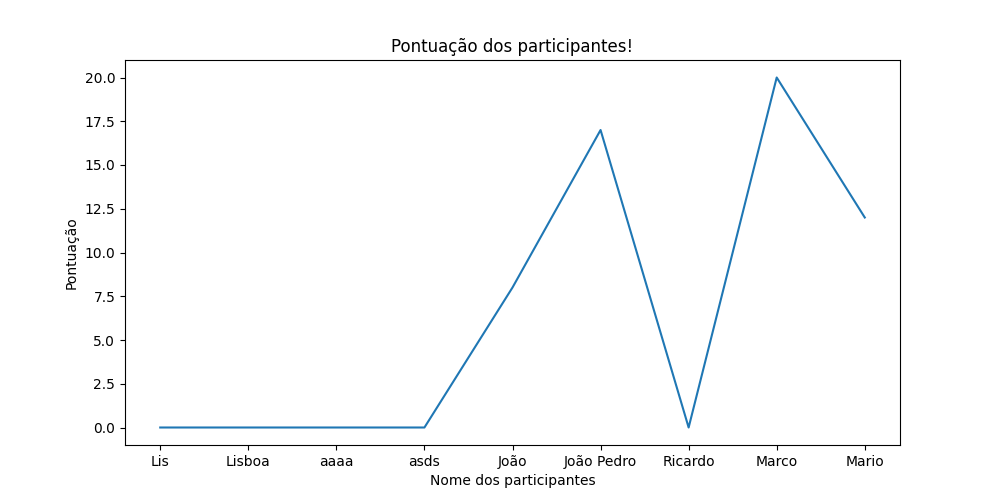
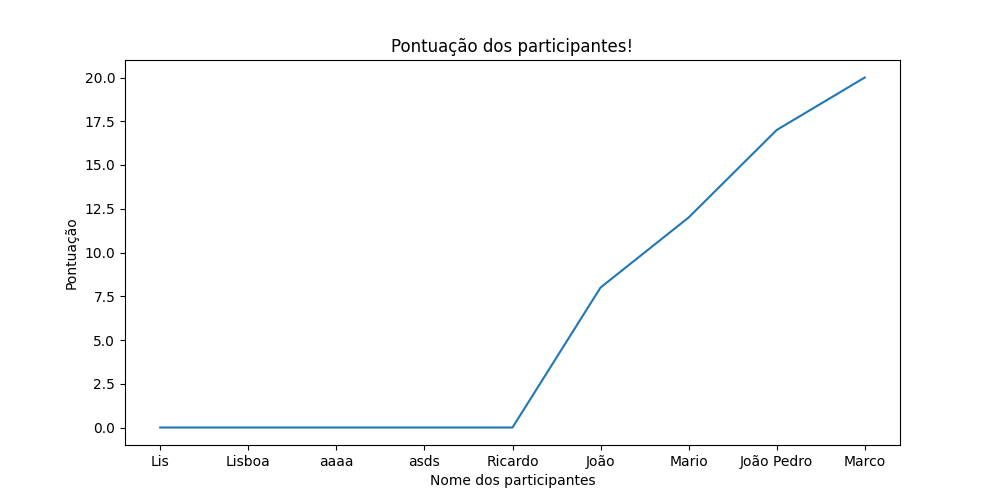
commit inicial

diff --git a/config/settings.py b/config/settings.py
@@ -24,6 +24,7 @@ BASE_DIR = Path(__file__).resolve().parent.parent
 
 # SECURITY WARNING: keep the secret key used in production secret!
 SECRET_KEY = env.str("SECRET_KEY")
+
 # SECURITY WARNING: don't run with debug turned on in production!
 DEBUG = env.bool("DEBUG", default=False)
 
@@ -45,13 +46,20 @@ INSTALLED_APPS = [
 MIDDLEWARE = [
     'django.middleware.security.SecurityMiddleware',
     'django.contrib.sessions.middleware.SessionMiddleware',
-    'whitenoise.middleware.WhiteNoiseMiddleware',
+    'whitenoise.middleware.WhiteNoiseMiddleware',    # novo
     'django.middleware.common.CommonMiddleware',
     'django.middleware.csrf.CsrfViewMiddleware',
     'django.contrib.auth.middleware.AuthenticationMiddleware',
     'django.contrib.messages.middleware.MessageMiddleware',
     'django.middleware.clickjacking.XFrameOptionsMiddleware',
 ]
+# Static files (CSS, JavaScript, Images)
+# https://docs.djangoproject.com/en/4.0/howto/static-files/
+
+STATIC_URL = '/nome_aplicacao/static/'    # substitua nome_aplicacao pelo nome da sua aplicação
+STATICFILES_DIRS = [str(BASE_DIR.joinpath('static'))]  # novo se a pasta static estiver na pasta da aplicação app, altere para str(BASE_DIR.joinpath('app/static'))
+STATIC_ROOT = str(BASE_DIR.joinpath('staticfiles'))   # novo
+STATICFILES_STORAGE = 'whitenoise.storage.CompressedManifestStaticFilesStorage'  # novo
 
 ROOT_URLCONF = 'config.urls'
 
@@ -75,10 +83,9 @@ WSGI_APPLICATION = 'config.wsgi.application'
 
 # Database
 # https://docs.djangoproject.com/en/4.0/ref/settings/#databases
-
 DATABASES = {
-    "default": env.dj_db_url("DATABASE_URL")
-}
+      "default": env.dj_db_url("DATABASE_URL")
+ }
 
 # Password validation
 # https://docs.djangoproject.com/en/4.0/ref/settings/#auth-password-validators
@@ -109,14 +116,6 @@ USE_I18N = True
 
 USE_TZ = True
 
-# Static files (CSS, JavaScript, Images)
-# https://docs.djangoproject.com/en/4.0/howto/static-files/
-
-STATIC_URL = 'static/'
-STATICFILES_DIRS = [str(BASE_DIR.joinpath('portfolio/static'))] # novo se a pasta static estiver na pasta da aplicação app,
-# altere para str(BASE_DIR.joinpath('app/static'))
-STATIC_ROOT = str(BASE_DIR.joinpath('staticfiles'))   # novo
-STATICFILES_STORAGE = 'whitenoise.storage.CompressedManifestStaticFilesStorage'  # novo
 
 # Default primary key field type
 # https://docs.djangoproject.com/en/4.0/ref/settings/#default-auto-field

diff --git a/portfolio/quizzFunctions.py b/portfolio/quizzFunctions.py
@@ -1,5 +1,4 @@
-from .models import Quizz
-from matplotlib import pyplot as plt
+import matplotlib.pyplot as plt
 
 
 def informacao_sobre_utilizadores(objetos):
@@ -13,6 +12,7 @@ def informacao_sobre_utilizadores(objetos):
 def desenha_grafico_resultados(objetos):
     # creating the dataset
     dados = informacao_sobre_utilizadores(objetos)
+    dados = dict(sorted(dados.items(), key=lambda item: item[1], reverse=False))
 
     pessoas = list(dados.keys())
     pontuacoes = list(dados.values())
